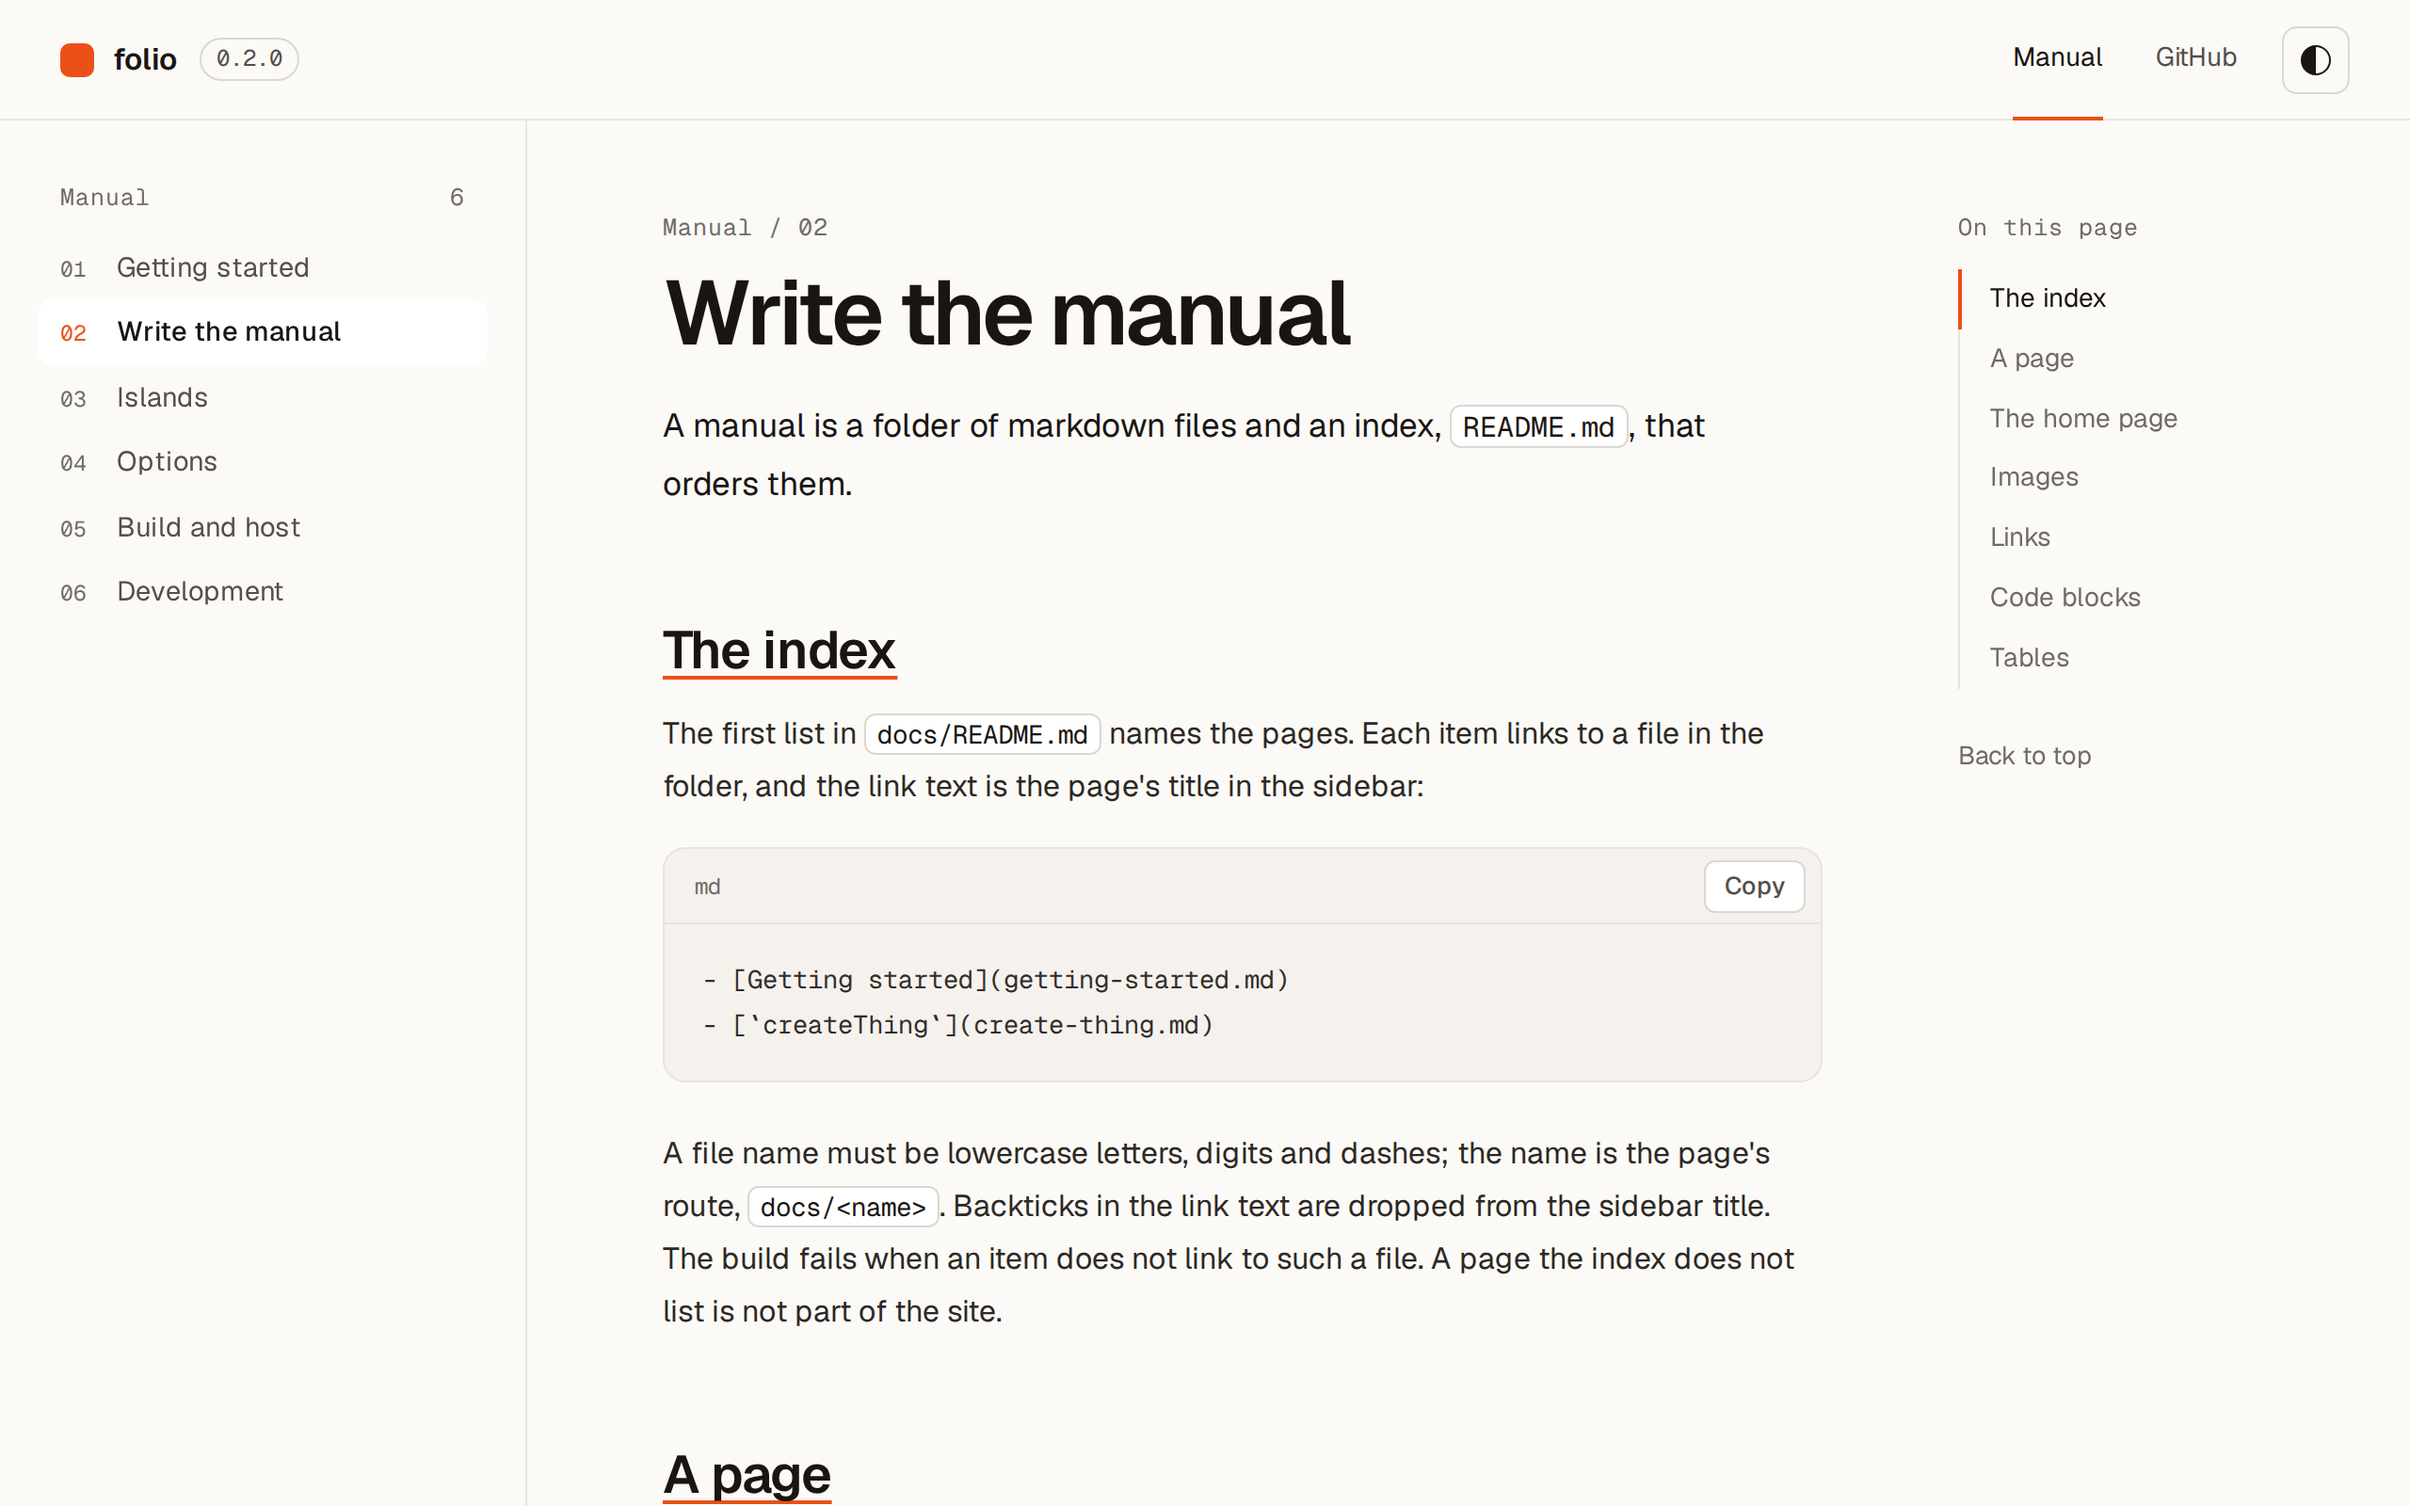
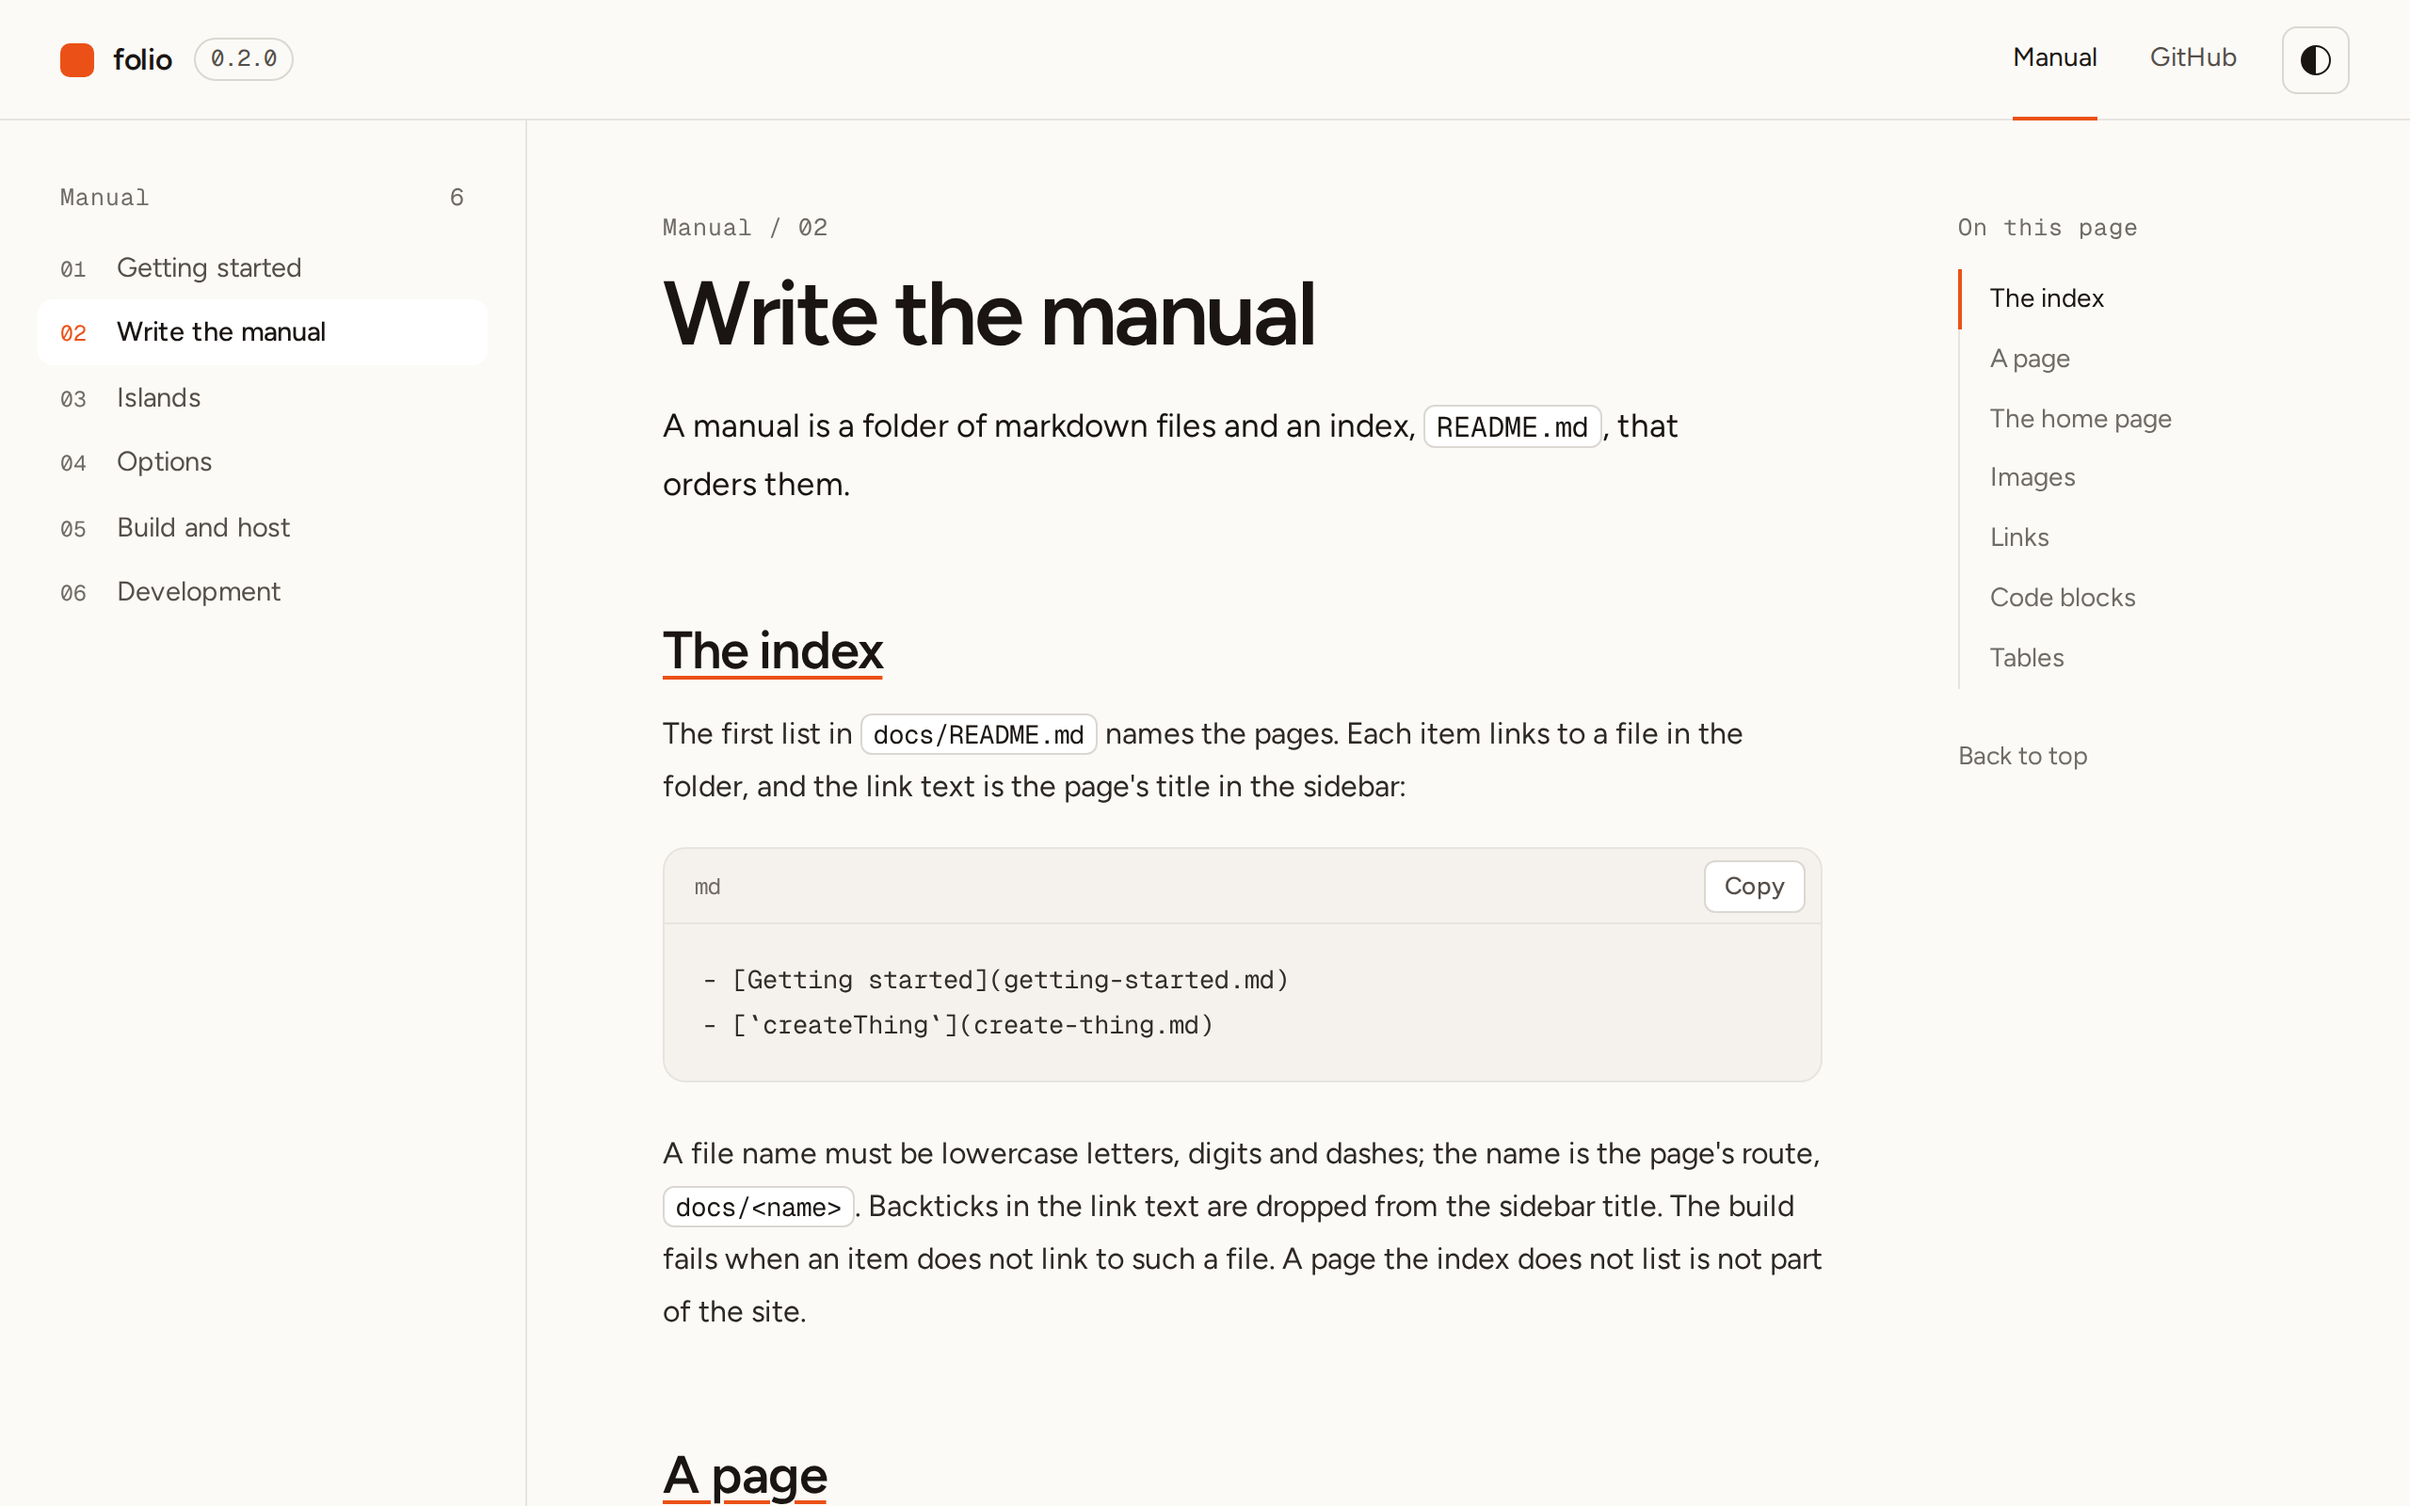
theme: set text in Figtree

diff --git a/theme/fonts.css b/theme/fonts.css
@@ -1,16 +1,17 @@
 /*
- * Local faces scaled to Geist's metrics. Text set in them while Geist loads
- * takes the same space, so the swap does not move the page. The values come
- * from @capsizecss/metrics: size-adjust is the ratio of average character
- * widths, and each override is Geist's metric divided by it. Liberation Sans
- * and Liberation Mono share Arial's and Courier New's metrics.
+ * Local faces scaled to Figtree's and Geist Mono's metrics. Text set in them
+ * while the web fonts load takes the same space, so the swap does not move the
+ * page. The values come from @capsizecss/metrics: size-adjust is the ratio of
+ * average character widths, and each override is the web font's metric divided
+ * by it. Liberation Sans and Liberation Mono share Arial's and Courier New's
+ * metrics.
  */
 @font-face {
-  font-family: "Geist Fallback";
+  font-family: "Figtree Fallback";
   src: local("Arial"), local("ArialMT"), local("Liberation Sans");
-  size-adjust: 104.76%;
-  ascent-override: 95.93%;
-  descent-override: 28.16%;
+  size-adjust: 100.72%;
+  ascent-override: 94.32%;
+  descent-override: 24.82%;
   line-gap-override: 0%;
 }
 @font-face {

diff --git a/src/plugin.ts b/src/plugin.ts
@@ -31,7 +31,7 @@ export function entryModule(root: string, options: ResolvedOptions): string {
   const font = (name: string) =>
     `import ${JSON.stringify(require.resolve(name))};`;
   return [
-    font("@fontsource-variable/geist"),
+    font("@fontsource-variable/figtree"),
     font("@fontsource-variable/geist-mono"),
     `import "@risinghq/folio/theme.css";`,
     `import { start } from "@risinghq/folio/client";`,
@@ -80,13 +80,13 @@ const mediaTypes: Record<string, string> = {
   avif: "image/avif",
 };
 
-/** Preloads the Latin Geist faces, which every page paints with first. */
+/** Preloads the Latin text and code faces, which every page paints with first. */
 function fontPreloads(bundle: Rolldown.OutputBundle, base: string): string[] {
   return Object.values(bundle)
     .filter(
       (file) =>
         file.type === "asset" &&
-        /\/geist(?:-mono)?-latin-wght-normal-[\w-]+\.woff2$/.test(
+        /\/(?:figtree|geist-mono)-latin-wght-normal-[\w-]+\.woff2$/.test(
           file.fileName,
         ),
     )

diff --git a/tests/build.test.ts b/tests/build.test.ts
@@ -91,7 +91,7 @@ describe("build", () => {
   it("preloads the text fonts before the stylesheet", () => {
     const html = read("index.html");
     expect(html).toMatch(
-      /<link rel="preload" href="\/site\/assets\/geist-latin-wght-normal-[\w-]+\.woff2" as="font" type="font\/woff2" crossorigin>/,
+      /<link rel="preload" href="\/site\/assets\/figtree-latin-wght-normal-[\w-]+\.woff2" as="font" type="font\/woff2" crossorigin>/,
     );
     const preload = html.indexOf('rel="preload"');
     expect(preload).toBeLessThan(html.indexOf('rel="stylesheet"'));

diff --git a/theme/tokens.css b/theme/tokens.css
@@ -32,7 +32,7 @@
   --code-tag: oklch(0.95 0.006 75);
   --code-attr: oklch(0.76 0.08 240);
 
-  --font: "Geist Variable", "Geist Fallback", system-ui, sans-serif;
+  --font: "Figtree Variable", "Figtree Fallback", system-ui, sans-serif;
   --mono: "Geist Mono Variable", "Geist Mono Fallback", ui-monospace, monospace;
   --r-xs: 4px;
   --r-sm: 6px;
